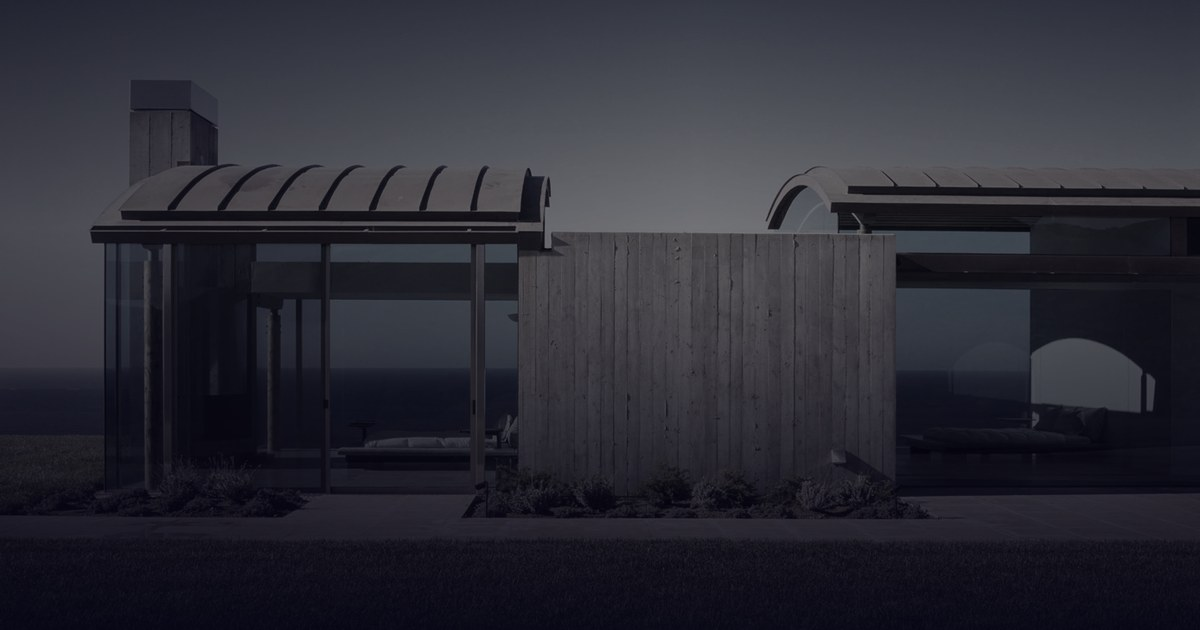
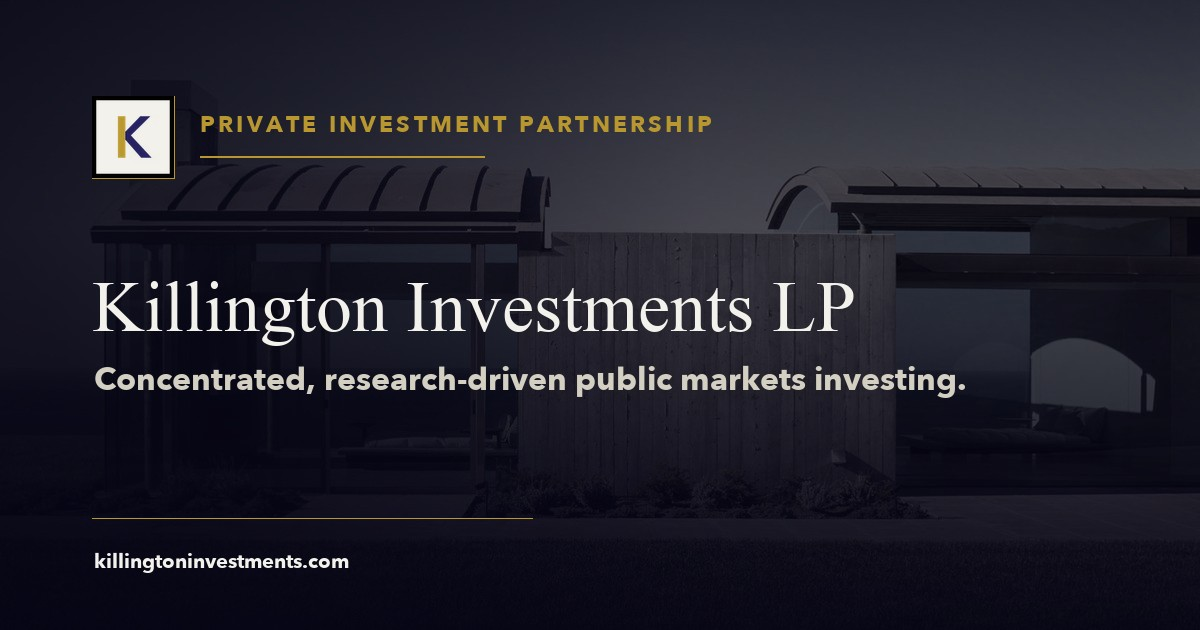
Improve social share card

diff --git a/index.html b/index.html
@@ -6,21 +6,22 @@
     <title>Killington Investments LP</title>
     <meta
       name="description"
-      content="Killington Investments LP is a private investment partnership."
+      content="Killington Investments LP is a private investment partnership focused on concentrated, research-driven public markets investing."
     >
     <meta property="og:type" content="website">
     <meta property="og:site_name" content="Killington Investments LP">
     <meta property="og:title" content="Killington Investments LP">
-    <meta property="og:description" content="Private investment partnership.">
+    <meta property="og:description" content="Concentrated, research-driven public markets investing.">
     <meta property="og:url" content="http://killingtoninvestments.com/">
-    <meta property="og:image" content="http://killingtoninvestments.com/assets/social-preview.jpg?v=1">
+    <meta property="og:image" content="http://killingtoninvestments.com/assets/social-preview.jpg?v=2">
+    <meta property="og:image:type" content="image/jpeg">
     <meta property="og:image:width" content="1200">
     <meta property="og:image:height" content="630">
     <meta property="og:image:alt" content="Killington Investments LP">
     <meta name="twitter:card" content="summary_large_image">
     <meta name="twitter:title" content="Killington Investments LP">
-    <meta name="twitter:description" content="Private investment partnership.">
-    <meta name="twitter:image" content="http://killingtoninvestments.com/assets/social-preview.jpg?v=1">
+    <meta name="twitter:description" content="Concentrated, research-driven public markets investing.">
+    <meta name="twitter:image" content="http://killingtoninvestments.com/assets/social-preview.jpg?v=2">
     <link rel="icon" href="favicon.ico" sizes="any">
     <link rel="icon" type="image/png" href="assets/ksquare.png?v=2">
     <link rel="apple-touch-icon" href="assets/ksquare.png?v=2">
